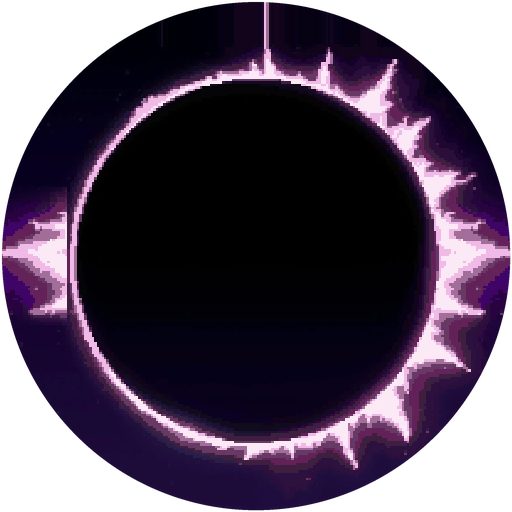
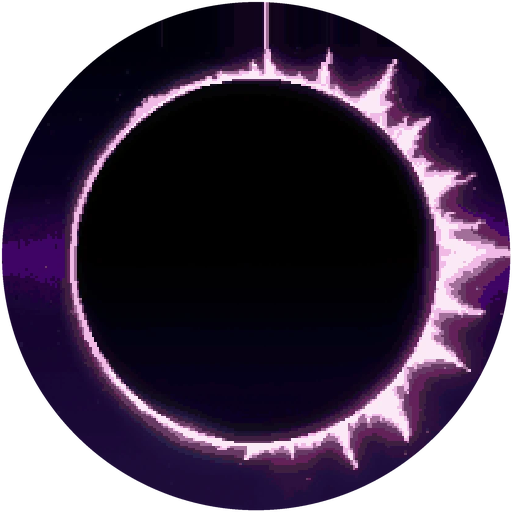
feat: Void Sun 3.2 — tela de abertura do desenvolvedor, aviso da primeira vez e feixe roxo corrigido
- Abertura: 'Developed by' + logotipo (demônio guitarrista em pixel art) + 'Djabo'; clique ou tecla pula
- Aviso da primeira execução em duas páginas (PT/EN), com 'Entendido!' e 'Sair'
- Tela inicial: só o feixe roxo é replicado à esquerda; os raios do sol ficam de um lado só

Changed region(s): [[0.0, 0.375, 0.1562, 0.625]]

diff --git a/src/ui/home/FirstRun.svelte b/src/ui/home/FirstRun.svelte
@@ -1,0 +1,97 @@
+<!--
+  Aviso da primeira vez que o jogo abre: duas páginas (seta para a direita passa à
+  próxima). Na segunda, "Entendido!" fecha para sempre e "Sair" fecha o jogo.
+-->
+<script lang="ts">
+  import { tick } from 'svelte';
+  import { ChevronRight, ChevronLeft } from '@lucide/svelte';
+  import { L } from '../../app/i18n.svelte';
+  import { app } from '../../store/project.svelte';
+  import { host } from '../../app/settings.svelte';
+
+  let { ondone }: { ondone: () => void } = $props();
+  let page = $state(0);
+  let box = $state<HTMLDivElement>();
+  const focusMain = () => void tick().then(() => box?.querySelector<HTMLButtonElement>('[data-main]')?.focus());
+  $effect(() => { void page; focusMain(); });
+
+  function setLang(l: 'pt-BR' | 'en-US') { app.updateProject((p) => { p.lang = l; }); document.documentElement.lang = l; }
+  /** Sair: fecha o jogo (no navegador não há o que fechar; o aviso continua na tela). */
+  function quit() { const h = host(); if (h) h.quit(); else window.close(); }
+  function key(e: KeyboardEvent) {
+    if (e.key === 'ArrowRight' && page === 0) { page = 1; e.preventDefault(); e.stopPropagation(); }
+    else if (e.key === 'ArrowLeft' && page === 1) { page = 0; e.preventDefault(); e.stopPropagation(); }
+    else if (e.key === 'Escape') { e.preventDefault(); e.stopPropagation(); }
+  }
+</script>
+
+<svelte:window onkeydowncapture={key} />
+
+<div class="backdrop" role="presentation">
+  <div class="note" role="dialog" aria-modal="true" aria-label="Disclaimer" bind:this={box}>
+    <header>
+      <span class="sun" aria-hidden="true"></span>
+      <span class="lang">
+        <button class:on={app.lang === 'pt-BR'} onclick={() => setLang('pt-BR')}>PT</button>
+        <button class:on={app.lang === 'en-US'} onclick={() => setLang('en-US')}>EN</button>
+      </span>
+    </header>
+
+    {#key page}
+      <div class="page">
+        {#if page === 0}
+          <h2>Disclaimer</h2>
+          <p class="big">{L('Esse jogo foi 100% produzido com a ajuda de Inteligência Artificial (AI).', 'This game was 100% made with the help of Artificial Intelligence (AI).')}</p>
+          <p>{L('Se você se sente desconfortável com isso, sinta-se à vontade para desinstalar o jogo ou pedir reembolso.', 'If you feel uncomfortable with that, feel free to uninstall the game or ask for a refund.')}</p>
+          <p class="but">{L('Porém...', 'But... One more thing...')}</p>
+        {:else}
+          <p class="big">{L('Esse jogo foi construído com o único objetivo de ser divertido!', 'This game was built with the sole purpose of being fun!')}</p>
+          <p>{L('Se você não dá a mínima para isso e só quer curtir um bom jogo...', "If you don't give a damn about that and just want to enjoy a good game...")}</p>
+          <p class="welcome">{L('Bem-vindo(a) ao Void Sun!', 'Welcome to Void Sun!')}</p>
+        {/if}
+      </div>
+    {/key}
+
+    <footer>
+      <span class="dots"><i class:on={page === 0}></i><i class:on={page === 1}></i></span>
+      {#if page === 0}
+        <button class="next" data-main onclick={() => (page = 1)} aria-label={L('Próxima página', 'Next page')} title={L('Próxima página', 'Next page')}><ChevronRight size={22} strokeWidth={2.6} /></button>
+      {:else}
+        <button class="prev" onclick={() => (page = 0)} aria-label={L('Página anterior', 'Previous page')} title={L('Página anterior', 'Previous page')}><ChevronLeft size={18} strokeWidth={2.6} /></button>
+        <span class="fill"></span>
+        <button class="px-btn" onclick={quit}>{L('Sair', 'Quit')}</button>
+        <button class="px-btn gold big" data-main onclick={ondone}>{L('Entendido!', 'Got it!')}</button>
+      {/if}
+    </footer>
+  </div>
+</div>
+
+<style>
+  .backdrop { position: fixed; inset: 0; z-index: 68; display: grid; place-items: center; padding: 20px; background: rgb(4 3 8 / .8); backdrop-filter: blur(6px); animation: fade .5s .2s both; }
+  @keyframes fade { from { opacity: 0; } }
+  .note { width: min(700px, 100%); display: flex; flex-direction: column; gap: 14px; padding: 22px 28px 20px; background: linear-gradient(180deg, #1a1630, #0e0c18);
+    border: 3px solid #fff0c8; box-shadow: 0 0 0 3px #05040a, 0 0 0 6px #4a417a, 0 0 70px rgb(190 120 255 / .28), 0 30px 80px rgb(0 0 0 / .8); animation: pop .5s .25s cubic-bezier(.2, .9, .3, 1.15) both; }
+  @keyframes pop { from { transform: scale(.92); opacity: 0; } }
+  header { display: flex; align-items: center; justify-content: space-between; }
+  .sun { width: 30px; height: 30px; border-radius: 50%; background: #05040a; box-shadow: 0 0 0 3px #fff0c8, 0 0 16px 4px rgb(255 200 120 / .7), 0 0 36px 10px rgb(170 110 255 / .4); margin-left: 6px; }
+  .lang { display: flex; gap: 4px; }
+  .lang button { width: 36px; height: 24px; border: 2px solid #3a3260; background: #100e1a; color: var(--muted); font: 400 10px var(--pixel); cursor: pointer; }
+  .lang button.on { border-color: var(--accent); color: var(--accent-2); }
+  .page { min-height: 232px; display: flex; flex-direction: column; justify-content: center; gap: 14px; text-align: center; animation: turn .3s cubic-bezier(.2, .7, .3, 1); }
+  @keyframes turn { from { opacity: 0; transform: translateX(18px); } }
+  h2 { font: 700 22px var(--pixel); letter-spacing: .2em; padding-left: .2em; text-transform: uppercase; color: var(--accent-2); }
+  p { margin: 0; font: 400 17px/1.5 var(--pixel-text); color: var(--text-2); }
+  p.big { font-size: 20px; color: var(--text); }
+  p.but { font: 400 15px var(--pixel); letter-spacing: .1em; color: #c9a6ff; margin-top: 6px; }
+  p.welcome { font: 700 clamp(17px, 3.2vw, 26px) var(--pixel); letter-spacing: .08em; text-transform: uppercase; margin-top: 8px;
+    background: linear-gradient(180deg, #fff 10%, #ffe9c4 45%, #f0a8d8 80%, #b98bff); -webkit-background-clip: text; background-clip: text; -webkit-text-fill-color: transparent; filter: drop-shadow(0 3px 0 #3a1d5c) drop-shadow(0 0 16px rgb(255 190 230 / .4)); }
+  footer { display: flex; align-items: center; gap: 10px; min-height: 48px; }
+  .fill { flex: 1; }
+  .dots { display: flex; gap: 6px; }
+  .dots i { width: 9px; height: 9px; background: #2c2647; } .dots i.on { background: var(--accent); box-shadow: 0 0 8px var(--accent); }
+  .next { margin-left: auto; width: 54px; height: 46px; display: grid; place-items: center; border: 2px solid #fff0c2; background: linear-gradient(180deg, #f6d691, #d79d43); color: #1f1404; cursor: pointer; box-shadow: 0 3px 0 #6b4514, 0 0 18px rgb(240 190 110 / .3); animation: nudge 1.4s ease-in-out infinite; }
+  @keyframes nudge { 50% { transform: translateX(5px); } }
+  .next:active { transform: translateY(3px); box-shadow: none; }
+  .prev { width: 34px; height: 34px; display: grid; place-items: center; border: 2px solid #3a3260; background: #14111f; color: var(--text-2); cursor: pointer; }
+  .prev:hover { border-color: var(--accent); color: var(--accent-2); }
+</style>

diff --git a/src/ui/home/Splash.svelte b/src/ui/home/Splash.svelte
@@ -1,0 +1,96 @@
+<!--
+  Tela de abertura: o logotipo de quem fez o jogo, sobre preto. Some sozinha depois
+  de alguns segundos; qualquer clique ou tecla pula na hora.
+-->
+<script lang="ts">
+  import { onMount } from 'svelte';
+
+  let { ondone }: { ondone: () => void } = $props();
+  let leaving = $state(false);
+  let name = $state<HTMLCanvasElement>();
+  let ready = $state(false);
+
+  function leave(fast = false) {
+    if (leaving) return;
+    leaving = true;
+    setTimeout(ondone, fast ? 260 : 700);
+  }
+  const skip = (e: Event) => { e.preventDefault(); e.stopPropagation(); leave(true); };
+
+  /**
+   * "Djabo" em letra gótica, desenhado pequeno e ampliado sem suavizar: vira pixel art,
+   * do mesmo grão do resto do jogo. De osso (em cima) a sangue (embaixo), com contorno escuro.
+   */
+  async function drawName() {
+    const c = name;
+    if (!c) return;
+    const font = '700 46px "Grenze Gotisch", "Cinzel", serif';
+    try { await document.fonts.load(font, 'Djabo'); } catch { /* usa a fonte de reserva */ }
+    const W = 176, H = 64;
+    const mk = () => { const k = document.createElement('canvas'); k.width = W; k.height = H; return k; };
+    const text = mk(), tx = text.getContext('2d', { willReadFrequently: true })!;
+    tx.font = font; tx.textBaseline = 'alphabetic'; tx.fillStyle = '#fff';
+    tx.fillText('Djabo', 6, 46);
+    // letras de contorno duro (sem meio-tom): cada ponto é do texto ou não é
+    const a = tx.getImageData(0, 0, W, H), d = a.data;
+    const on = (x: number, y: number) => x >= 0 && y >= 0 && x < W && y < H && d[(y * W + x) * 4 + 3] > 110;
+    c.width = W; c.height = H;
+    const out = c.getContext('2d')!;
+    const img = out.createImageData(W, H), o = img.data;
+    const put = (x: number, y: number, r: number, g: number, b: number) => { const i = (y * W + x) * 4; o[i] = r; o[i + 1] = g; o[i + 2] = b; o[i + 3] = 255; };
+    // faixas de cor, de cima para baixo (degradê em degraus, como na pixel art)
+    const bands: [number, number, number][] = [[255, 244, 226], [255, 214, 170], [255, 150, 96], [236, 70, 48], [176, 22, 26], [112, 8, 20]];
+    let top = H, bottom = 0;
+    for (let y = 0; y < H; y++) for (let x = 0; x < W; x++) if (on(x, y)) { top = Math.min(top, y); bottom = Math.max(bottom, y); }
+    for (let y = 0; y < H; y++) for (let x = 0; x < W; x++) {
+      if (on(x, y)) {
+        const [r, g, b] = bands[Math.min(bands.length - 1, Math.floor(((y - top) / Math.max(1, bottom - top + 1)) * bands.length))];
+        // brilho na aresta de cima de cada traço
+        if (!on(x, y - 1)) put(x, y, 255, 255, 255); else put(x, y, r, g, b);
+      } else if (on(x - 1, y) || on(x + 1, y) || on(x, y - 1) || on(x, y + 1) || on(x - 1, y - 1) || on(x - 2, y - 2) || on(x - 1, y - 2) || on(x - 2, y - 1)) {
+        put(x, y, 40, 0, 8); // contorno e sombra, para baixo e para a direita
+      }
+    }
+    out.putImageData(img, 0, 0);
+    ready = true;
+  }
+
+  onMount(() => {
+    void drawName();
+    const t = setTimeout(() => leave(), 4200);
+    addEventListener('keydown', skip, true);
+    return () => { clearTimeout(t); removeEventListener('keydown', skip, true); };
+  });
+</script>
+
+<!-- svelte-ignore a11y_click_events_have_key_events, a11y_no_static_element_interactions -->
+<div class="splash" class:leaving onpointerdown={skip}>
+  <div class="mark" class:ready>
+    <span class="by">Developed by</span>
+    <div class="row">
+      <span class="pic"><img src="ui/estudio.webp" alt="" draggable="false" /></span>
+      <span class="name"><canvas bind:this={name} aria-label="Djabo"></canvas><i></i></span>
+    </div>
+  </div>
+</div>
+
+<style>
+  .splash { position: fixed; inset: 0; z-index: 200; display: grid; place-items: center; background: #000; cursor: default; user-select: none; transition: opacity .7s ease; }
+  .splash.leaving { opacity: 0; transition-duration: .26s; pointer-events: none; }
+  .mark { display: grid; justify-items: center; gap: min(2.2vh, 22px); opacity: 0; }
+  .mark.ready { animation: arrive 1.1s .15s cubic-bezier(.2, .7, .3, 1) forwards; }
+  @keyframes arrive { from { opacity: 0; transform: translateY(10px) scale(.985); } to { opacity: 1; transform: none; } }
+  .by { font: 400 clamp(13px, 2.1vh, 22px) var(--pixel); letter-spacing: .5em; padding-left: .5em; text-transform: uppercase; color: #b3a0a6; }
+  .row { display: flex; align-items: center; gap: min(2.4vw, 34px); }
+  .pic { position: relative; display: block; height: min(56vh, 620px); aspect-ratio: 1; }
+  .pic img { width: 100%; height: 100%; object-fit: contain; image-rendering: pixelated; display: block;
+    /* as bordas do desenho somem no preto da tela */
+    mask-image: radial-gradient(ellipse 50% 50% at 50% 50%, #000 78%, transparent 100%); -webkit-mask-image: radial-gradient(ellipse 50% 50% at 50% 50%, #000 78%, transparent 100%); }
+  .pic::after { content: ''; position: absolute; inset: 12% 8%; border-radius: 50%; background: radial-gradient(circle, rgb(255 40 30 / .16), transparent 68%); mix-blend-mode: screen; animation: ember 3.2s ease-in-out infinite; pointer-events: none; }
+  @keyframes ember { 50% { opacity: .45; } }
+  .name { display: grid; gap: min(1vh, 10px); justify-items: start; }
+  .name canvas { height: min(24vh, 230px); width: auto; image-rendering: pixelated; filter: drop-shadow(0 0 22px rgb(255 50 30 / .35)); }
+  /* traço sob o nome: uma lâmina que afina para a direita */
+  .name i { width: 92%; height: 4px; margin-left: 4%; background: linear-gradient(90deg, #ff5a3c, #b0161a 55%, transparent); }
+  @media (max-width: 760px) { .row { flex-direction: column; } .name { justify-items: center; } }
+</style>

diff --git a/src/app/App.svelte b/src/app/App.svelte
@@ -23,6 +23,7 @@
   import HeroCreator from '../ui/hero/HeroCreator.svelte';
   import Settings from '../ui/settings/Settings.svelte';
   import Home from '../ui/home/Home.svelte';
+  import Splash from '../ui/home/Splash.svelte';
   import Modes from '../ui/home/Modes.svelte';
   import About from '../ui/home/About.svelte';
   import ScreenBar from '../ui/common/ScreenBar.svelte';
@@ -34,6 +35,8 @@
   let error = $state('');
   let lastCard = $state<string | null>(null);
   let fps = $state(0);
+  /** Tela de abertura (logotipo do desenvolvedor): aparece uma vez, ao abrir o jogo. */
+  let splash = $state(true);
 
   onMount(() => {
     Promise.all([loadCardFonts(), app.load()]).catch((e) => { error = String(e?.message ?? e); });
@@ -90,7 +93,7 @@
   function key(e: KeyboardEvent) {
     if (!settings.is(e, 'back') && e.key !== 'Escape') return;
     setTimeout(() => {
-      if (e.defaultPrevented || ui.ask || ui.pdf || shell.ownMenu) return;
+      if (e.defaultPrevented || splash || ui.ask || ui.pdf || shell.ownMenu) return;
       if (shell.menu) { shell.menu = false; return; }
       // há uma janela aberta por cima da tela (seletor, ajuda…): o Esc é dela
       if (document.querySelector('.picker, .scene-modal, .modal, .backdrop')) return;
@@ -116,6 +119,8 @@
 <div class="shell">
   {#if error}
     <div class="fatal"><h2>{L('Não foi possível abrir o jogo', 'Could not open the game')}</h2><p>{error}</p></div>
+  {:else if splash}
+    <!-- o jogo carrega por trás da abertura -->
   {:else if !app.ready}
     <div class="loading"><span class="sun"></span><p>Void Sun</p></div>
   {:else if route === 'home'}
@@ -159,6 +164,7 @@
   {/if}
 </div>
 
+{#if splash}<Splash ondone={() => (splash = false)} />{/if}
 {#if settings.v.showFps}<div class="fps">{fps} fps</div>{/if}
 <PauseMenu />
 <Toasts />

diff --git a/src/ui/home/Home.svelte b/src/ui/home/Home.svelte
@@ -11,6 +11,7 @@
   import { host, settings } from '../../app/settings.svelte';
   import { ui } from '../../app/ui.svelte';
   import { chip } from '../../audio/chip';
+  import FirstRun from './FirstRun.svelte';
 
   interface Item { id: string; pt: string; en: string; hint: [string, string]; go?: () => void; wip?: boolean }
   const ITEMS: Item[] = [
@@ -50,10 +51,18 @@
     px = (e.clientX / innerWidth - 0.5) * -14;
     py = (e.clientY / innerHeight - 0.5) * -8;
   }
+  // aviso da primeira vez (fica guardado neste computador que já foi visto)
+  const SEEN = 'voidsun.aviso';
+  let notice = $state((() => { try { return localStorage.getItem(SEEN) !== '1'; } catch { return false; } })());
+  function understood() {
+    try { localStorage.setItem(SEEN, '1'); } catch { /* sem armazenamento local */ }
+    notice = false;
+    first?.focus({ preventScroll: true });
+  }
   let first = $state<HTMLButtonElement>();
   onMount(() => {
     chip.music('title');
-    first?.focus({ preventScroll: true });
+    if (!notice) first?.focus({ preventScroll: true });
   });
 </script>
 
@@ -106,6 +115,8 @@
     </span>
   </footer>
 </div>
+
+{#if notice}<FirstRun ondone={understood} />{/if}
 
 <style>
   .home { position: relative; height: 100%; overflow: hidden; background: #05040a; user-select: none; }

diff --git a/src/app/main.ts b/src/app/main.ts
@@ -1,6 +1,7 @@
 import { mount } from 'svelte';
 import '@fontsource-variable/inter';
 import '@fontsource/cinzel/600.css';
+import '@fontsource/grenze-gotisch/700.css';
 import '@fontsource/silkscreen/400.css';
 import '@fontsource/silkscreen/700.css';
 import '@fontsource/pixelify-sans/400.css';

diff --git a/tools/comfyui/gerar_telas.py b/tools/comfyui/gerar_telas.py
@@ -13,6 +13,8 @@ OUT = os.path.join(os.path.dirname(os.path.abspath(__file__)), '..', '..', 'publ
 os.makedirs(OUT, exist_ok=True)
 PRE = "UMEMPART, modern pixel art, highly detailed 16-bit fantasy game key art, crisp square pixels, limited color palette, dramatic lighting, "
 END = " Dark, mysterious, cosmic mood. No text, no letters, no logo, no UI, no border, no frame, no watermark."
+PRE_FIG = "UMEMPART, modern pixel art, highly detailed 16-bit game character art, crisp square pixels, limited color palette, dramatic red rim lighting, "
+END_FIG = " No text, no letters, no logo, no UI, no border, no frame, no watermark, no scenery, no ground." 
 # (id, semente, largura, altura, descrição)
 ARTS = [
     ('titulo', 31, 1920, 1088,
@@ -26,18 +28,25 @@ ARTS = [
     ('batalha-multi', 42, 1024, 1280,
      "vertical composition: two rival heroes facing each other in a duel on a dark stone arena, on the left an armored knight with a sword and red cape, on the right a hooded mage with a glowing blue staff, "
      "both in profile, sparks between them, under a black sun in total eclipse with a thin white-gold corona in a deep indigo starry sky."),
+    # logotipo do desenvolvedor (tela de abertura): fundo preto liso, para assentar sobre a tela preta
+    ('estudio', 51, 1024, 1024,
+     "full body character on a plain pure black background: a fearsome black-skinned demon rock guitarist standing with legs apart, shredding a black electric guitar held across his body. "
+     "He has four big curved black horns (two rising from the forehead and two sweeping out from the sides of the head), glowing red eyes, a snarling mouth with fangs, "
+     "a huge wild mane of long shaggy black hair, long black fur hanging from the forearms and shoulders, a muscular bare chest with a leather guitar strap, clawed hands on the fretboard and strings, "
+     "ragged black fur around the waist and legs, clawed feet. Strong red rim light outlining the whole silhouette, faint red embers. "
+     "The whole figure from the horns to the feet is inside the frame, centered, with empty black space around it. Flat black background, nothing else."),
     ('campanha', 43, 1024, 1280,
      "vertical composition: a winding road through a dark fantasy world map landscape seen from a high cliff, distant ruined castle, dead forest, mountains and a glowing violet rift on the horizon, "
      "a small party of three travelers with a lantern walking the road, under a black sun in total eclipse with a thin white-gold corona in a deep indigo starry sky."),
 ]
 
-def wf(prompt, seed, w, h):
+def wf(prompt, seed, w, h, fig=False):
     return {
       "1": {"class_type": "UNETLoader", "inputs": {"unet_name": "flux1-dev.safetensors", "weight_dtype": "fp8_e4m3fn"}},
       "2": {"class_type": "DualCLIPLoader", "inputs": {"clip_name1": "t5xxl_fp16.safetensors", "clip_name2": "clip_l.safetensors", "type": "flux"}},
       "3": {"class_type": "VAELoader", "inputs": {"vae_name": "ae.safetensors"}},
       "10": {"class_type": "LoraLoader", "inputs": {"model": ["1", 0], "clip": ["2", 0], "lora_name": "ume_modern_pixelart.safetensors", "strength_model": 1.0, "strength_clip": 1.0}},
-      "4": {"class_type": "CLIPTextEncode", "inputs": {"text": PRE + prompt + END, "clip": ["10", 1]}},
+      "4": {"class_type": "CLIPTextEncode", "inputs": {"text": (PRE_FIG + prompt + END_FIG) if fig else (PRE + prompt + END), "clip": ["10", 1]}},
       "5": {"class_type": "FluxGuidance", "inputs": {"conditioning": ["4", 0], "guidance": 3.5}},
       "6": {"class_type": "EmptySD3LatentImage", "inputs": {"width": w, "height": h, "batch_size": 1}},
       "7": {"class_type": "KSampler", "inputs": {"model": ["10", 0], "positive": ["5", 0], "negative": ["5", 0], "latent_image": ["6", 0],
@@ -65,7 +74,7 @@ for aid, seed, w, h, prompt in ARTS:
         dst = os.path.join(OUT, f"{aid}.webp" if v == 1 else f"{aid}__v{v}.webp")
         if os.path.exists(dst): continue
         t0 = time.time()
-        pid = post('/prompt', {"prompt": wf(prompt, seed * 100 + v, w, h)})['prompt_id']
+        pid = post('/prompt', {"prompt": wf(prompt, seed * 100 + v, w, h, fig=aid == 'estudio')})['prompt_id']
         while True:
             time.sleep(2)
             hist = get('/history/' + pid)

diff --git a/progress.md b/progress.md
@@ -1,8 +1,14 @@
 # Void Sun — progresso
 
-**Atualizado:** 02/10/2026 (versão 3.0: o jogo passa a se chamar Void Sun e vira jogo em primeiro lugar)
+**Atualizado:** 02/10/2026 (versão 3.2: tela de abertura do desenvolvedor e aviso da primeira vez)
 **Como abrir:** atalho *Void Sun* no menu de aplicativos, ou o script `Void Sun` na pasta.
 **Código antigo:** preservado no git na etiqueta `legado-v1`. Até a 2.9 o programa se chamava Darkstar Forge.
+
+## Versão 3.2 (02/10/2026)
+
+- [x] Tela de abertura com o logotipo do desenvolvedor ("Developed by" + o demônio guitarrista + "Djabo"); some sozinha e qualquer clique ou tecla pula
+- [x] Aviso da primeira vez que o jogo abre (duas páginas, PT/EN): "Entendido!" não mostra mais, "Sair" fecha o jogo
+- [x] Tela inicial: à esquerda do sol só o feixe roxo (os raios do sol ficam só do lado direito)
 
 ## Versão 3.1 (02/10/2026)
 
